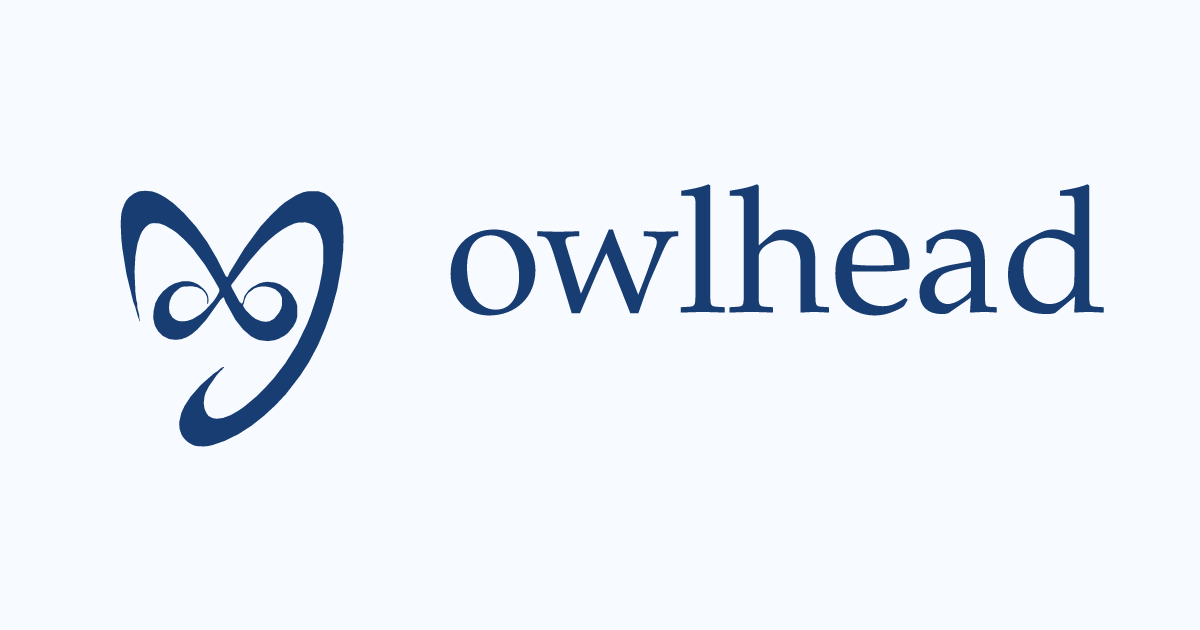
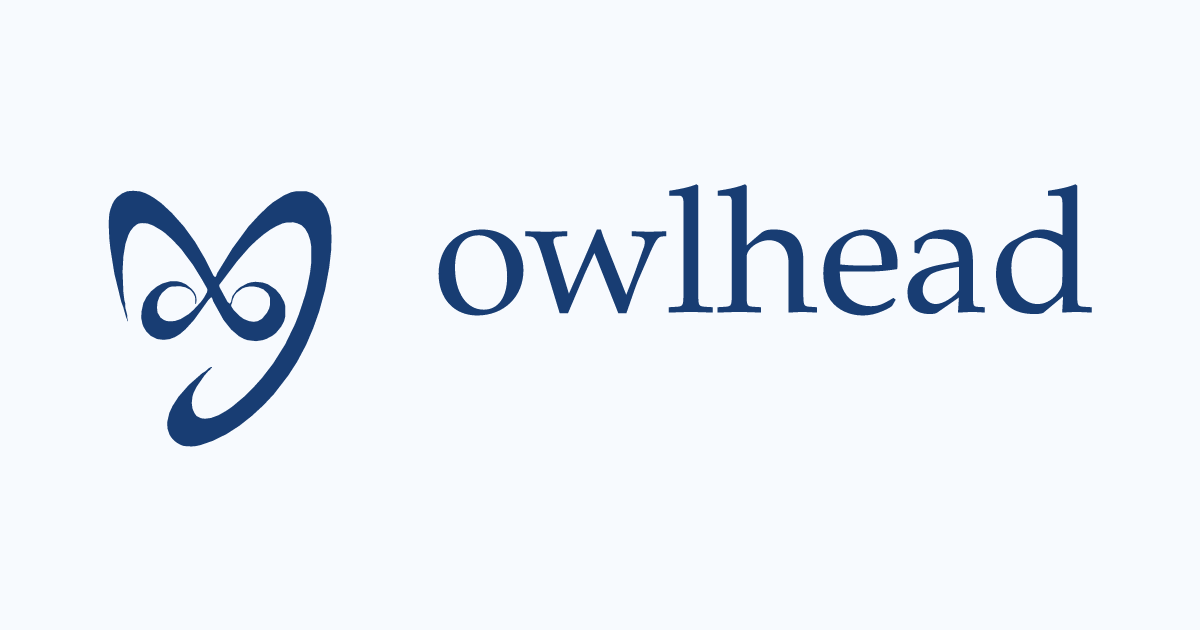
web: the share image's lockup centred to the pixel (translate(-22 50))
Left and right margins are both 109 px, top 185 and bottom 184; the test holds both to 2 px.

Changed region(s): [[0.3392, 0.2714, 0.925, 0.5127], [0.0925, 0.3016, 0.3083, 0.7238]]

diff --git a/web/src/components/brand/brand-assets.test.ts b/web/src/components/brand/brand-assets.test.ts
@@ -167,8 +167,8 @@ describe("brand assets (npm run brand)", () => {
     const xs = navy.map(([x]) => x);
     const ys = navy.map(([, y]) => y);
     const [left, right, top, bottom] = [Math.min(...xs), Math.max(...xs), Math.min(...ys), Math.max(...ys)];
-    expect(Math.abs(left - (1199 - right))).toBeLessThanOrEqual(30);
-    expect(Math.abs(top - (629 - bottom))).toBeLessThanOrEqual(4);
+    expect(Math.abs(left - (1199 - right))).toBeLessThanOrEqual(2);
+    expect(Math.abs(top - (629 - bottom))).toBeLessThanOrEqual(2);
     expect(navy.some(([x, y]) => x < 345 && y > 190 && y < 450)).toBe(true);
     expect(navy.some(([x, y]) => x > 445 && y > 190 && y < 312)).toBe(true);
     const ink = all.filter(([, , p]) => p.join() !== opaque(OFF_WHITE).join());
